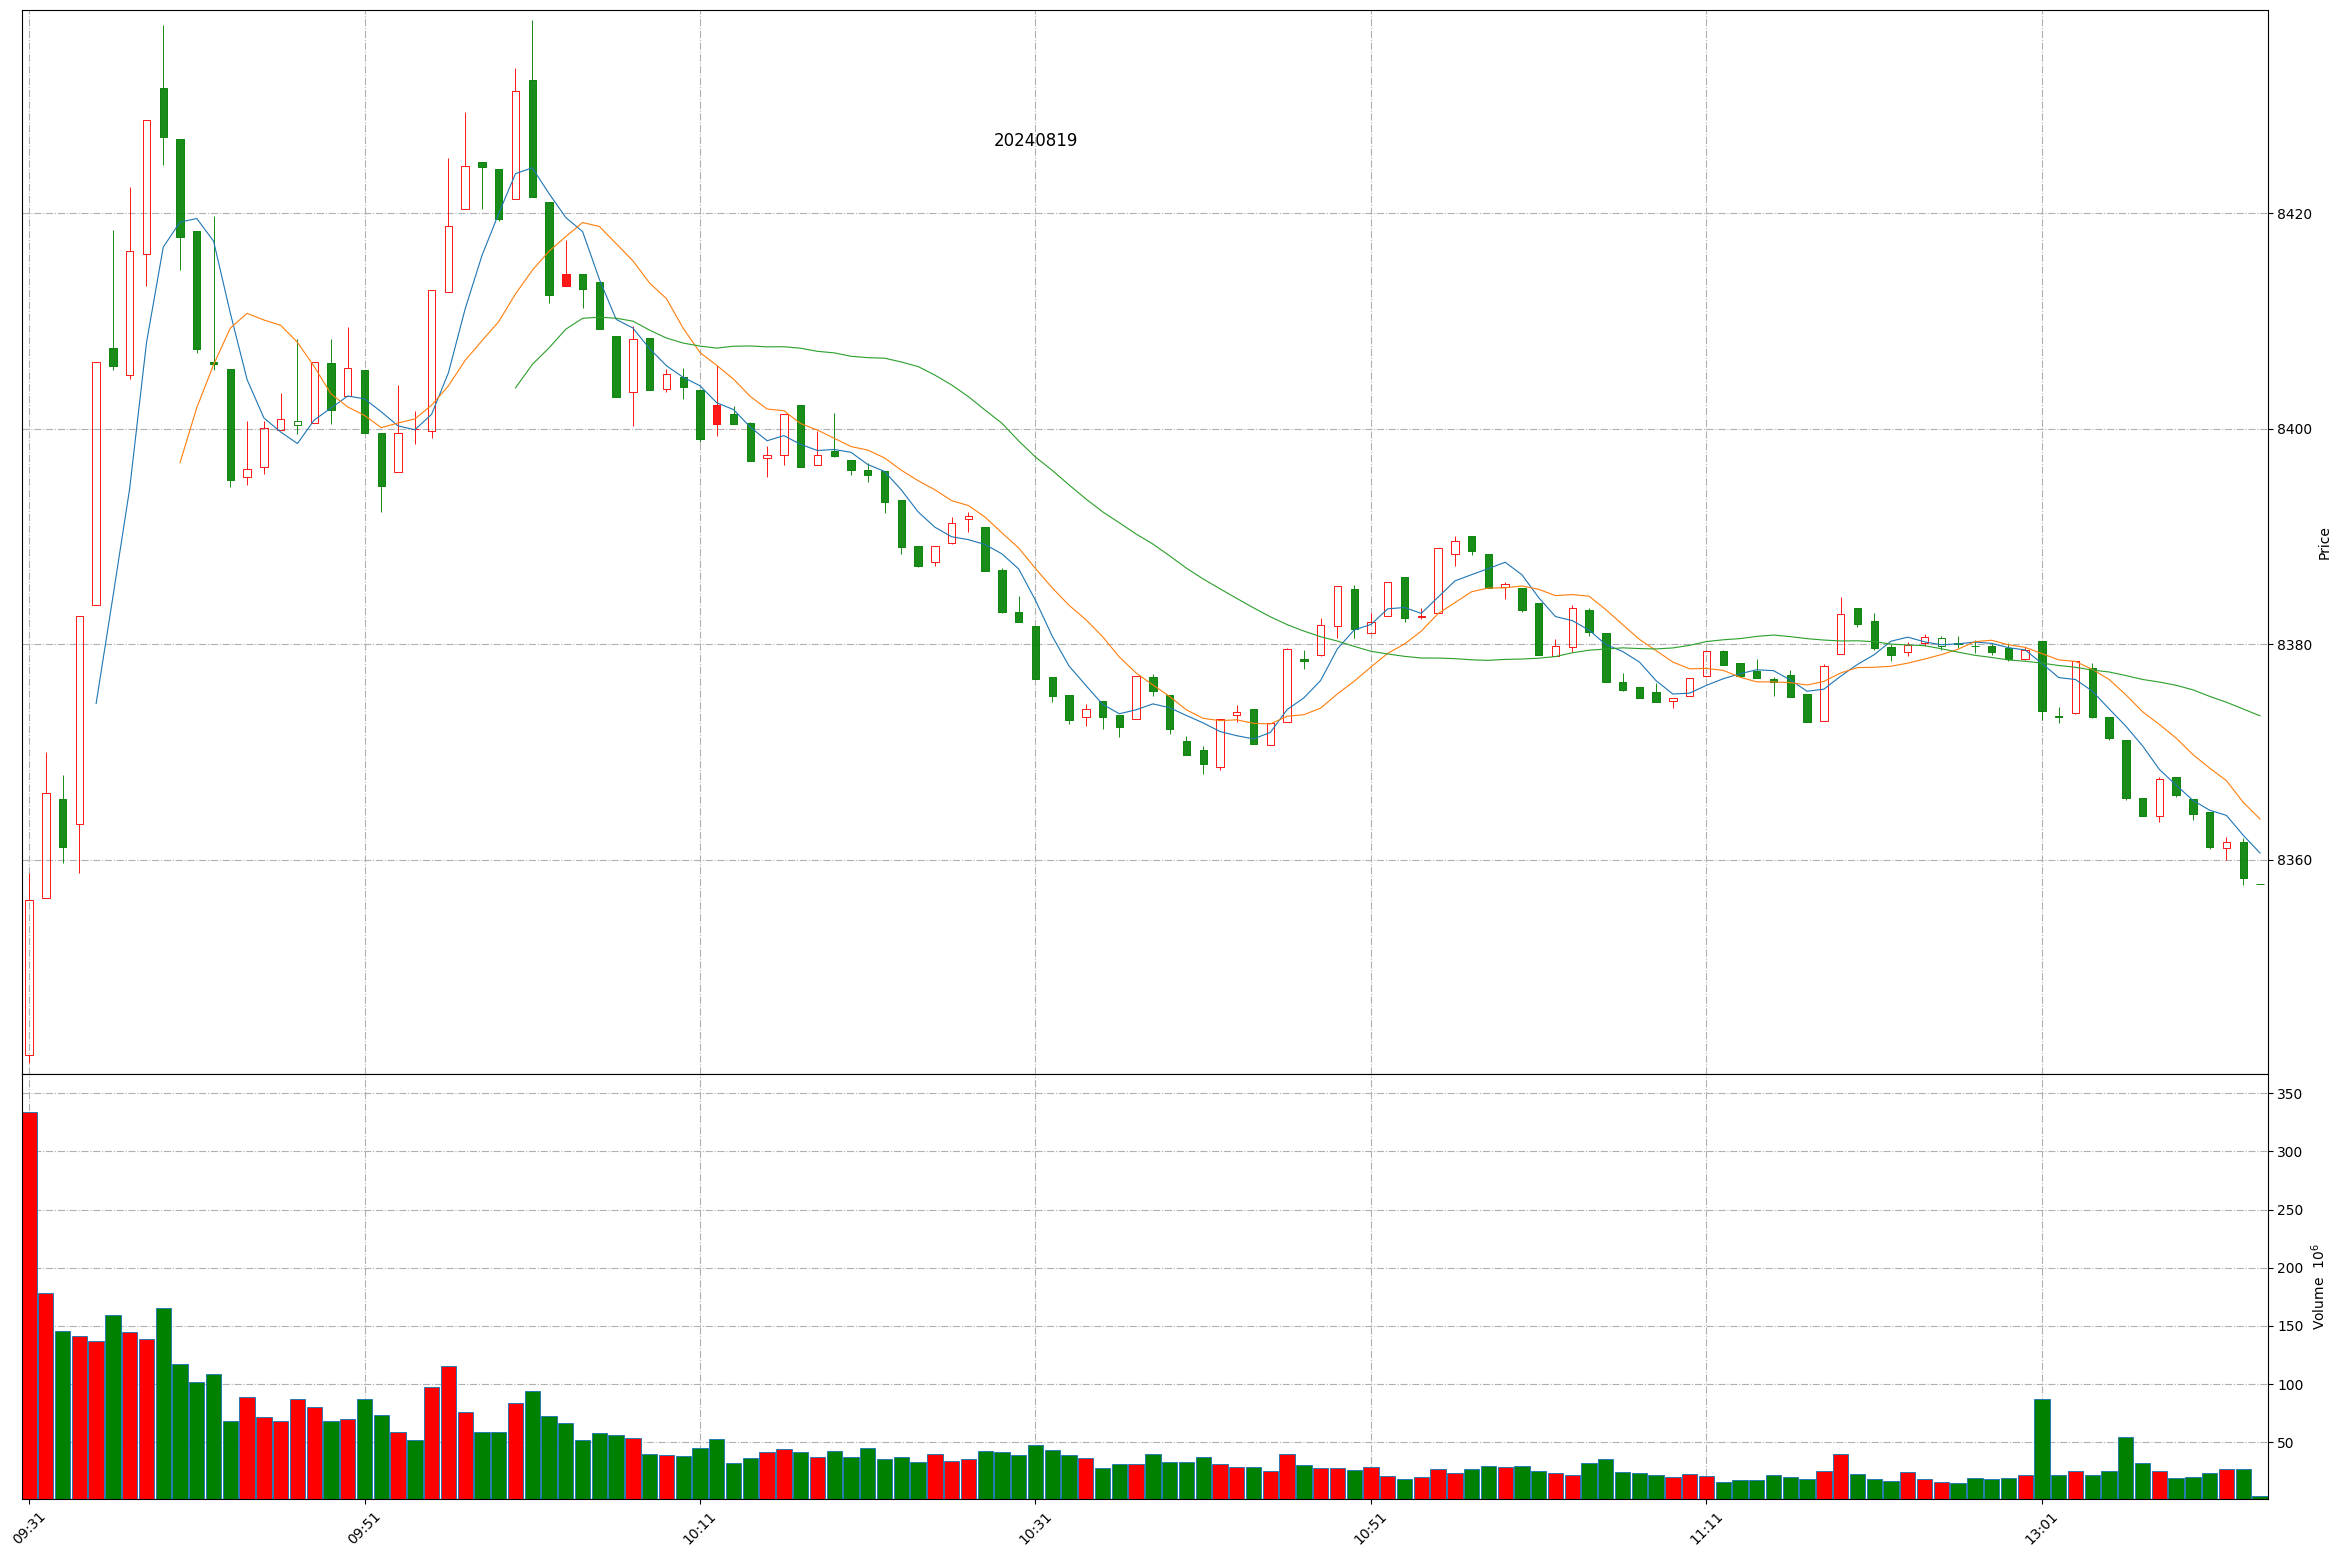
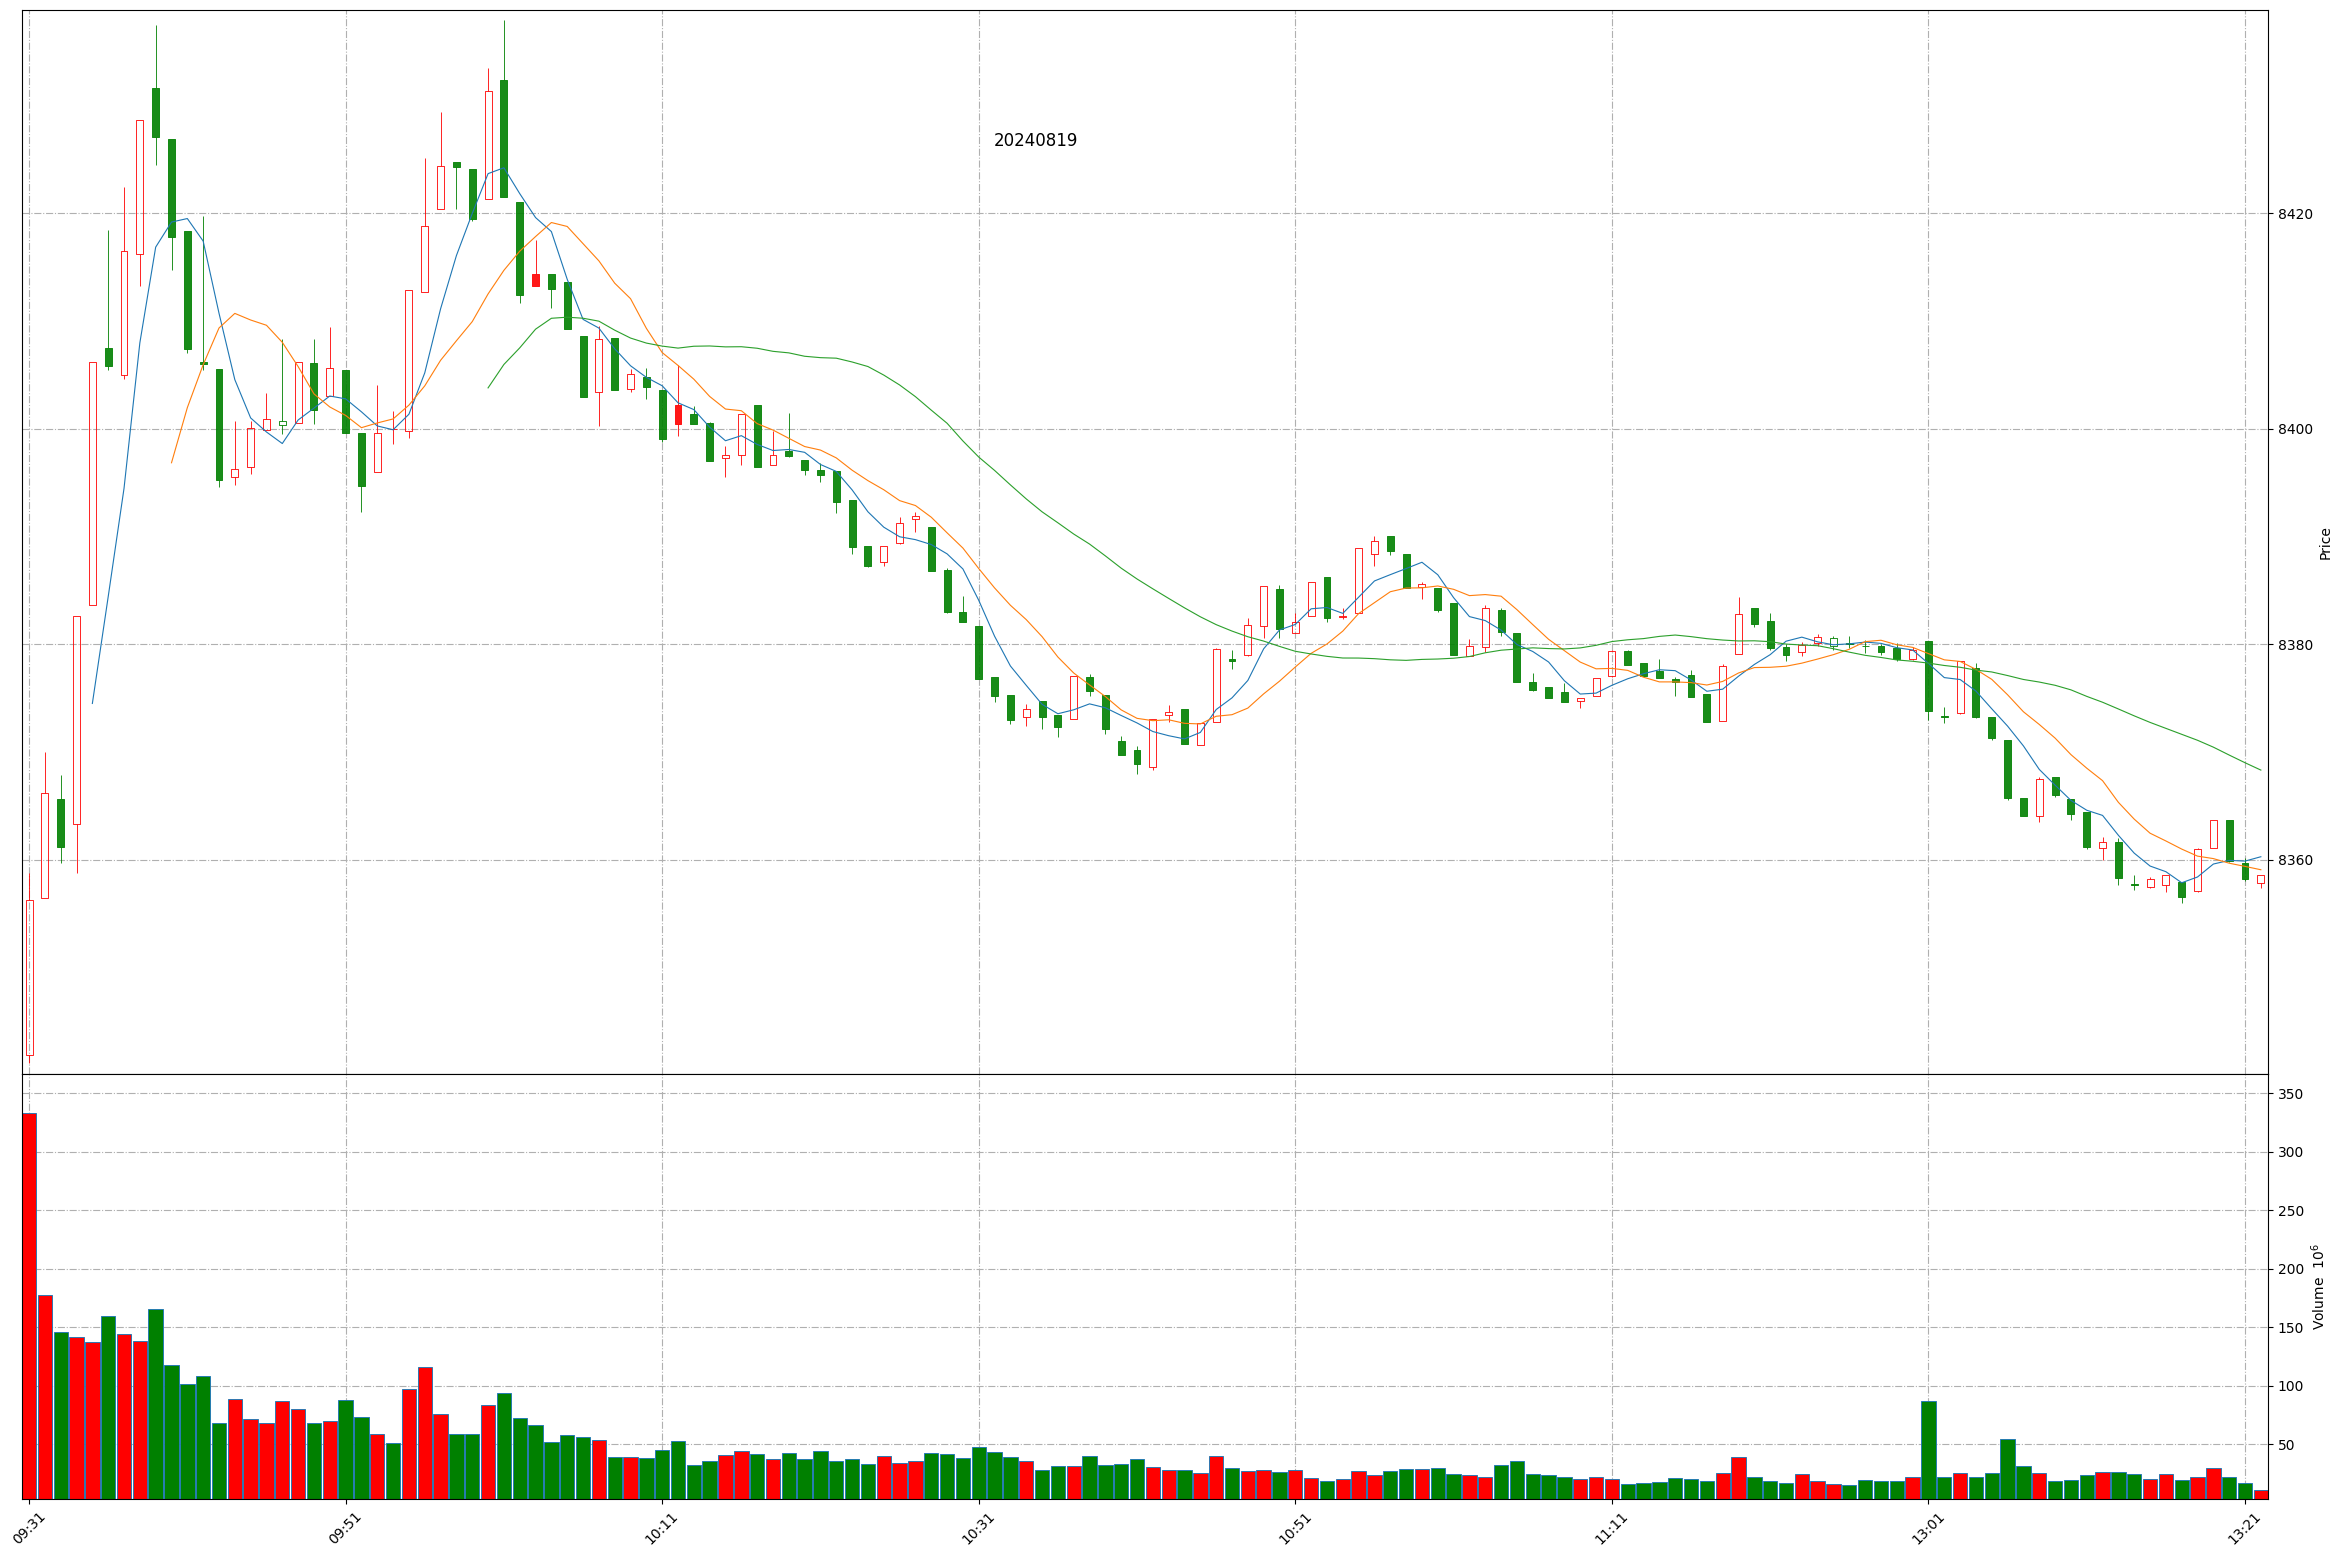
Github action update at 2024-08-19 13:21:50.

diff --git a/README.md b/README.md
@@ -1,11 +1,11 @@
 
 # Daily-A-share-market-quotes 每日 A 股指数（5min 更新）- 20240819
 
-### 上证指数 20240819 13:13
+### 上证指数 20240819 13:21
 ![](./fig/2024/8/20240819-sh000001.png)
 
-### 深证成指 20240819 13:13
+### 深证成指 20240819 13:21
 ![](./fig/2024/8/20240819-sz399001.png)
 
-### 北证50 20240819 13:13
+### 北证50 20240819 13:21
 ![](./fig/2024/8/20240819-bj899050.png)
